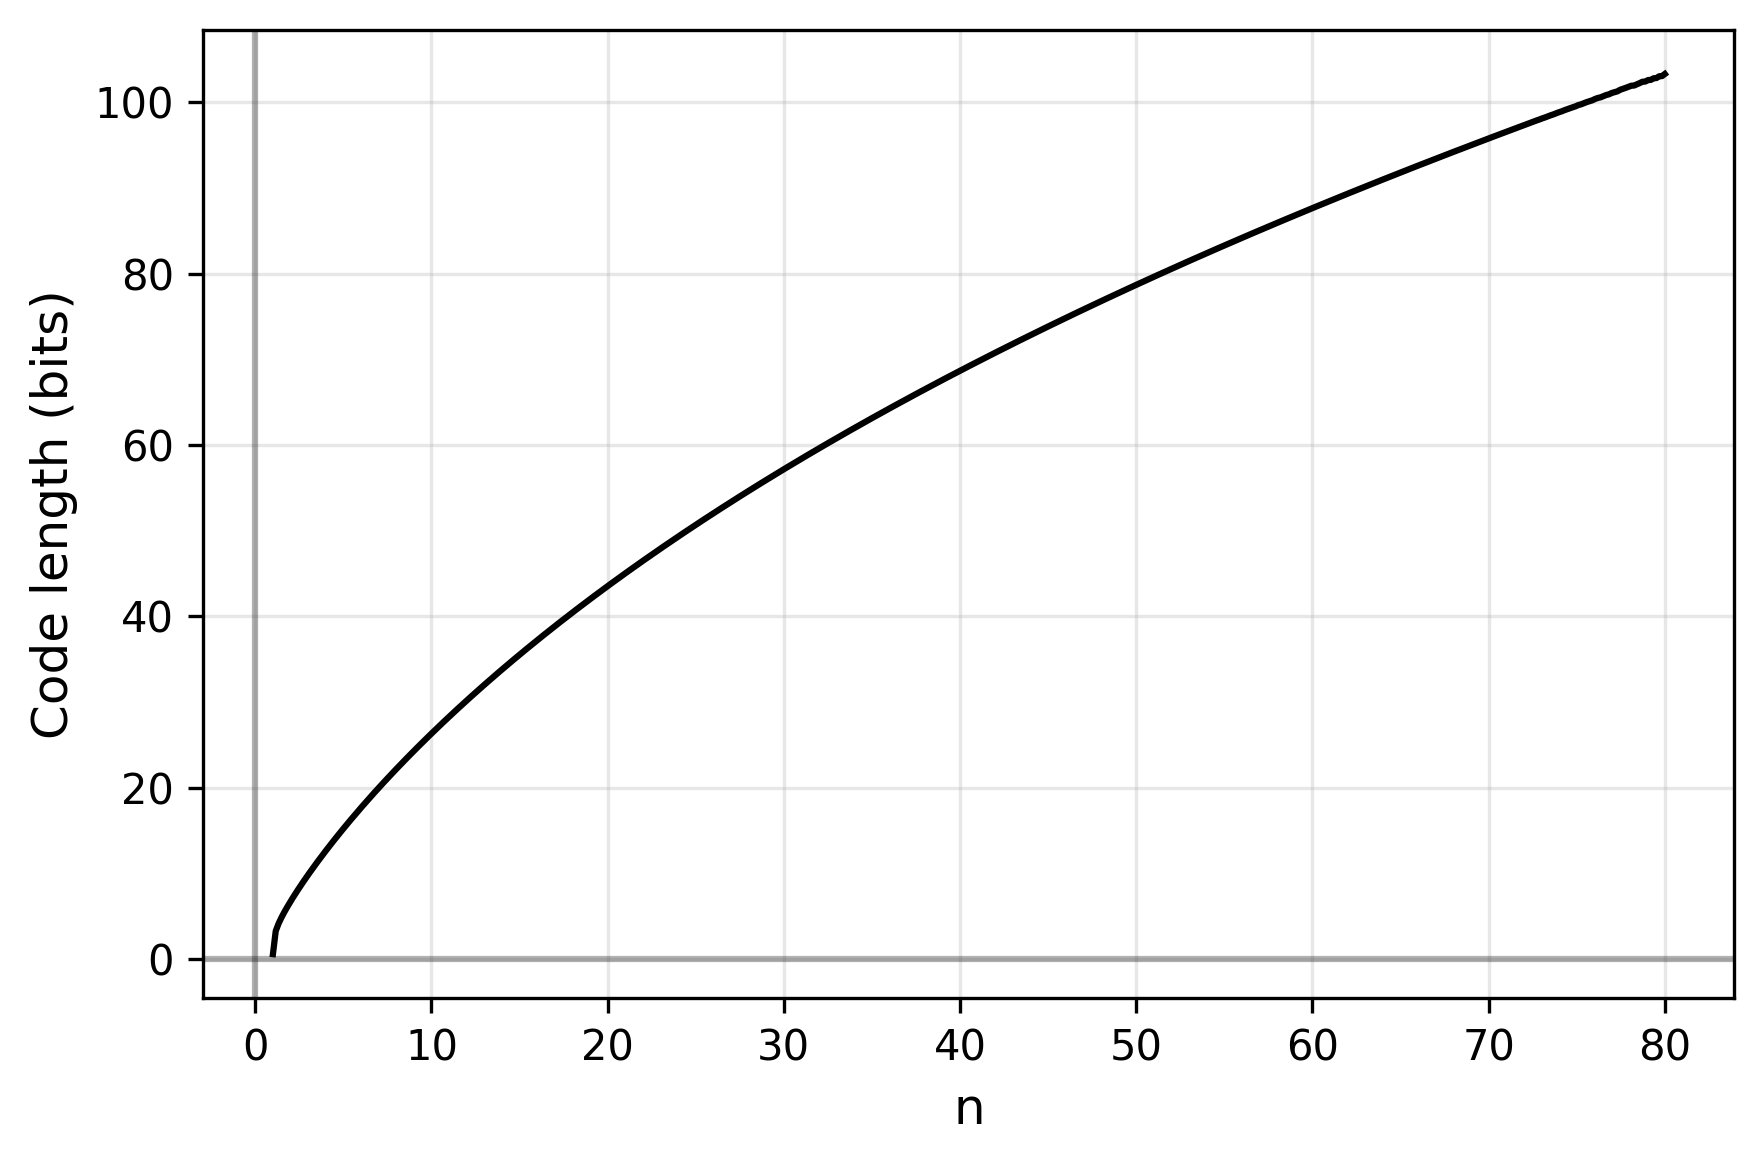
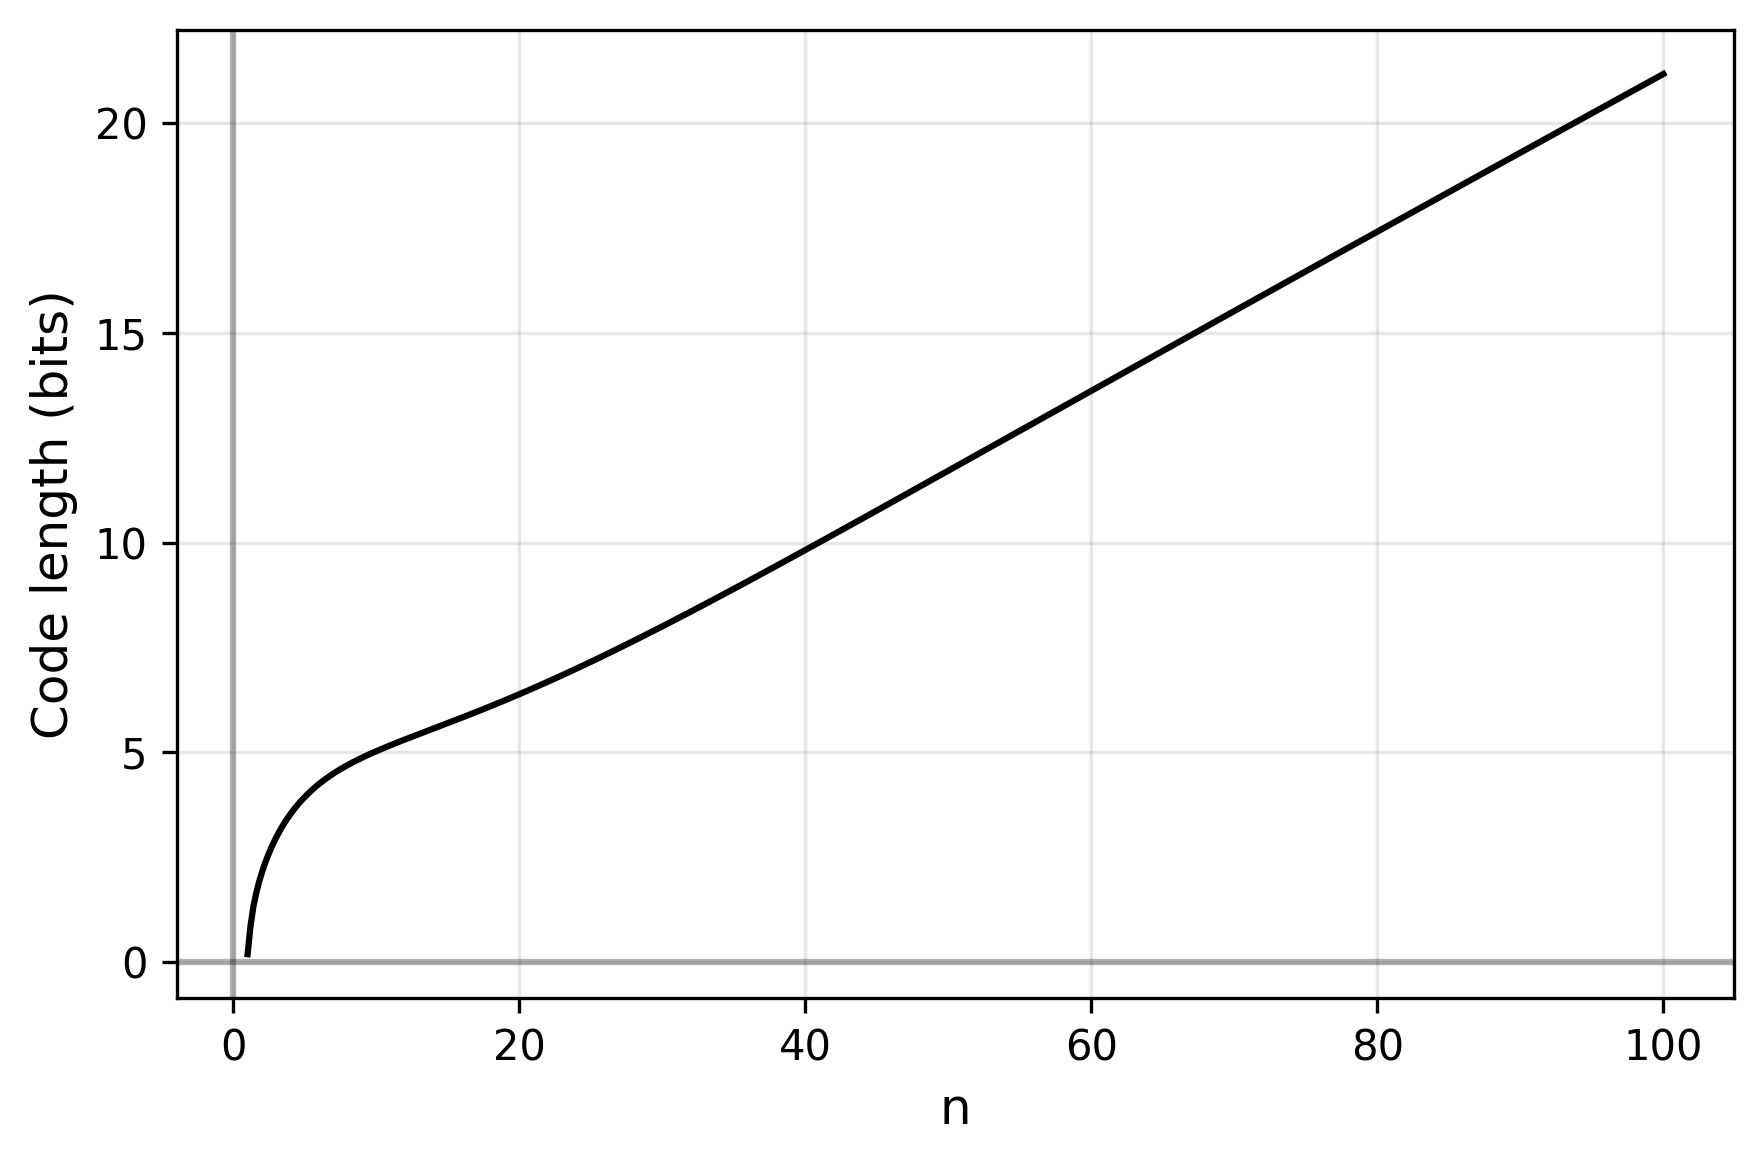
Better demonstration of outlier information

diff --git a/docs/gauss.html b/docs/gauss.html
@@ -74,8 +74,8 @@ probability distribution.</p></li>
 <p>Of course you can break both of these conditions if you select a small
 enough bin size, so we assume only a reasonable limit to the amount of
 precision per number (e.g. on the order of e.g. 32 or 64 bits).</p>
-<p>We first address the potential theoretical limitation (1) and follow
-with the implementation details (2).</p>
+<p>We first address theoretical considerations and follow with the
+implementation considerations.</p>
 <h2 id="worst-likelihood-analysis">Worst Likelihood Analysis</h2>
 <p>Which distribution of data produces the lowest likelihoods in its
 Gaussian MLE? Presumably, those that are the most dissimilar from the
@@ -142,16 +142,13 @@ in <span class="math inline">\(O(n)\)</span> of the size of the data set, which 
 performance of the uniform distribution of fixed-length codes.</p>
 <p>Now, a full account of the performance of the distribution also has to
 take into account the code lengths of non-outliers, although we only
-expect their likelihood to grow (and their code length to shrink) with
-increasing <span class="math inline">\(n\)</span>. For completeness, computing the sum of code lengths
-using proper probability intervals (not density) on the CDF, with bin
-size of <span class="math inline">\(0.2\)</span>, in base 2 (bits), we show the total code length only
-grows sub-linearly w.r.t. <span class="math inline">\(n\)</span> in this outlier “worst case”:</p>
+expect their likelihood to grow with increasing <span class="math inline">\(n\)</span> compared to the
+outlier. For completeness, computing the sum of code lengths using
+proper probability intervals (not density) on the CDF, with bin size
+<span class="math inline">\(\pm 0.5\)</span> around integers, in base 2, we show the total code length also
+achieves linear size w.r.t. <span class="math inline">\(n\)</span> in this outlier “worst case”:</p>
 <p><img src="images/outliercasecodelength.png" /></p>
-<p>where computations past <span class="math inline">\(n = 80\)</span> fail because of underflow of the
-default CDF function in <code>numpy</code>, which is understandable as this places
-our sampled value <span class="math inline">\(1\)</span> at over <span class="math inline">\(80\)</span> standard deviations off the mean.</p>
-<h2 id="numerically-stable-functions">Numerically Stable Functions</h2>
+<h2 id="numerical-stability">Numerical Stability</h2>
 <p>The quantile function for Gaussians is continuous, one-to-one, monotone
 and has finite value everywhere except at <span class="math inline">\(0 \mapsto -\infty\)</span> and <span class="math inline">\(1
 \mapsto \infty\)</span>.</p>

diff --git a/posts/gauss.md b/posts/gauss.md
@@ -74,8 +74,8 @@ Of course you can break both of these conditions if you select a small
 enough bin size, so we assume only a reasonable limit to the amount of
 precision per number (e.g. on the order of e.g. 32 or 64 bits). 
 
-We first address the potential theoretical limitation (1) and follow
-with the implementation details (2).
+We first address theoretical considerations and follow with the
+implementation considerations.
 
 ## Worst Likelihood Analysis
 
@@ -168,19 +168,15 @@ performance of the uniform distribution of fixed-length codes.
 
 Now, a full account of the performance of the distribution also has to
 take into account the code lengths of non-outliers, although we only
-expect their likelihood to grow (and their code length to shrink) with
-increasing $n$. For completeness, computing the sum of code lengths
-using proper probability intervals (not density) on the CDF, with bin
-size of $0.2$, in base 2 (bits), we show the total code length only
-grows sub-linearly w.r.t. $n$ in this outlier "worst case":
+expect their likelihood to grow with increasing $n$ compared to the
+outlier. For completeness, computing the sum of code lengths using
+proper probability intervals (not density) on the CDF, with bin size
+$\pm 0.5$ around integers, in base 2, we show the total code length also
+achieves linear size w.r.t. $n$ in this outlier "worst case":
 
 ![](images/outliercasecodelength.png)
 
-where computations past $n = 80$ fail because of underflow of the
-default CDF function in `numpy`, which is understandable as this places
-our sampled value $1$ at over $80$ standard deviations off the mean.
-
-## Numerically Stable Functions
+## Numerical Stability
 
 The quantile function for Gaussians is continuous, one-to-one, monotone
 and has finite value everywhere except at $0 \mapsto -\infty$ and $1
